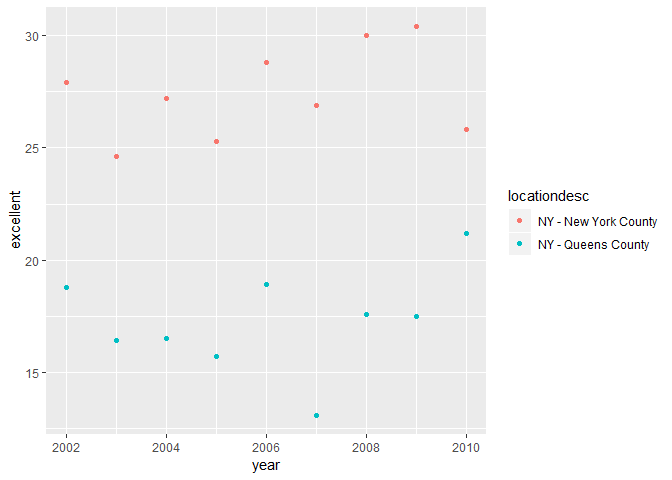
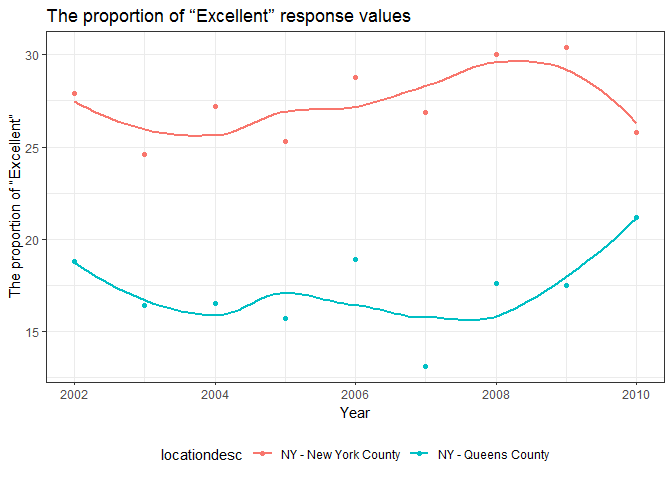
change the plots

diff --git a/homework_2.md b/homework_2.md
@@ -280,27 +280,27 @@ brfss_data
 
 ``` r
 unique_location = distinct(brfss_data, locationdesc, .keep_all = TRUE) 
-state_data = count(unique_location, locationabbr) %>% 
+state_frequency = count(brfss_data, locationabbr) %>% 
   arrange(desc(n))
-state_data
+state_frequency
 ```
 
     ## # A tibble: 51 x 2
     ##    locationabbr     n
     ##    <chr>        <int>
-    ##  1 FL              44
-    ##  2 TX              20
-    ##  3 NJ              19
-    ##  4 NC              16
-    ##  5 OK              15
-    ##  6 SC              15
-    ##  7 WA              15
-    ##  8 MD              14
-    ##  9 PA              14
-    ## 10 CA              12
+    ##  1 NJ             146
+    ##  2 FL             122
+    ##  3 NC             115
+    ##  4 WA              97
+    ##  5 MD              90
+    ##  6 MA              79
+    ##  7 TX              71
+    ##  8 NY              65
+    ##  9 SC              63
+    ## 10 CO              59
     ## # ... with 41 more rows
 
-404 unique locations are included in the dataset. From state\_count, we can see every state is represented. FL is observed the most.
+404 unique locations are included in the dataset. From state\_frequency, we can see every state is represented. NJ is observed the most.
 
 2）In 2002, what is the median of the “Excellent” response value?
 
@@ -309,7 +309,14 @@ In 2002, the median of the "Excellent" response value is 23.6
 3）Make a histogram of “Excellent” response values in the year 2002:
 
 ``` r
-ggplot(filter(brfss_data, year == 2002), aes(x = excellent)) + geom_histogram()
+ggplot(filter(brfss_data, year == 2002), aes(x = excellent)) + 
+  geom_histogram() +
+    labs(
+      title = "Histogram of “Excellent” response values",
+      x = " “Excellent” response values",
+      y = "Frequency"
+    ) + 
+    theme_bw()
 ```
 
     ## `stat_bin()` using `bins = 30`. Pick better value with `binwidth`.
@@ -323,7 +330,18 @@ ggplot(filter(brfss_data, year == 2002), aes(x = excellent)) + geom_histogram()
 ``` r
 brfss_data %>% 
   filter(locationdesc %in% c("NY - New York County", "NY - Queens County")) %>% 
-  ggplot(aes(x = year, y = excellent)) + geom_point(aes(color = locationdesc))
+  ggplot(aes(x = year, y = excellent, color = locationdesc)) + 
+    geom_point() +
+    geom_smooth(se = FALSE) +
+    labs(
+      title = "The proportion of “Excellent” response values",
+      x = "Year",
+      y = "The proportion of “Excellent”"
+    ) + 
+    theme_bw() + 
+    theme(legend.position = "bottom")
 ```
+
+    ## `geom_smooth()` using method = 'loess' and formula 'y ~ x'
 
 ![](homework_2_files/figure-markdown_github/scatterplot-1.png)
